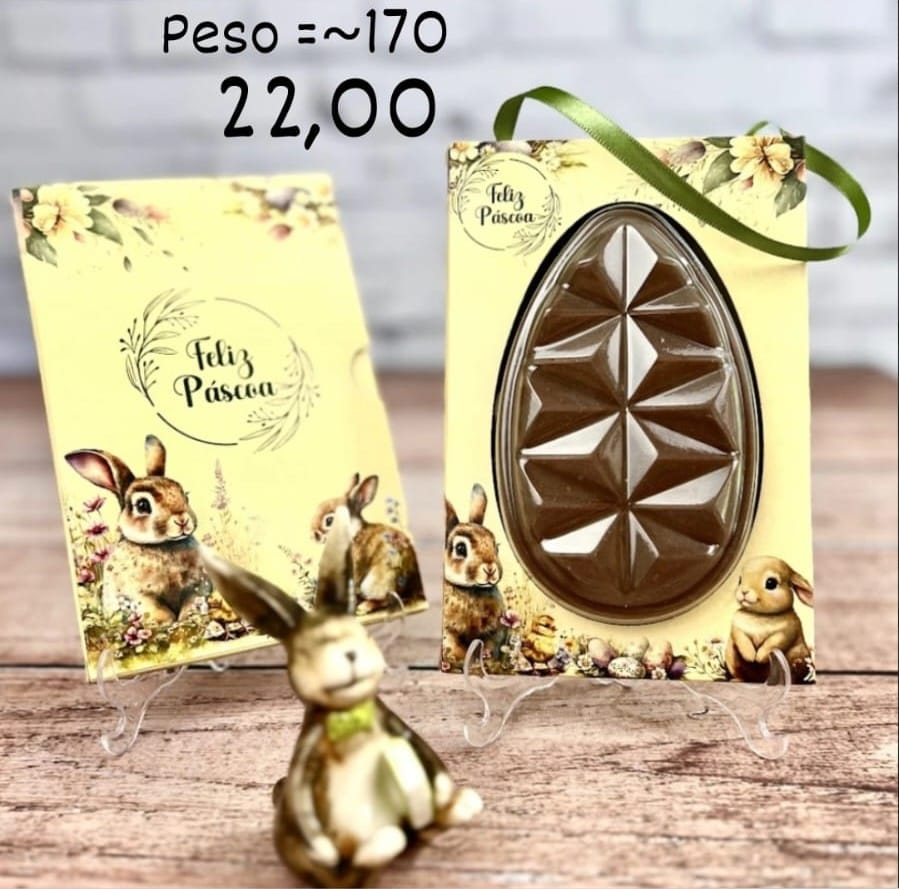
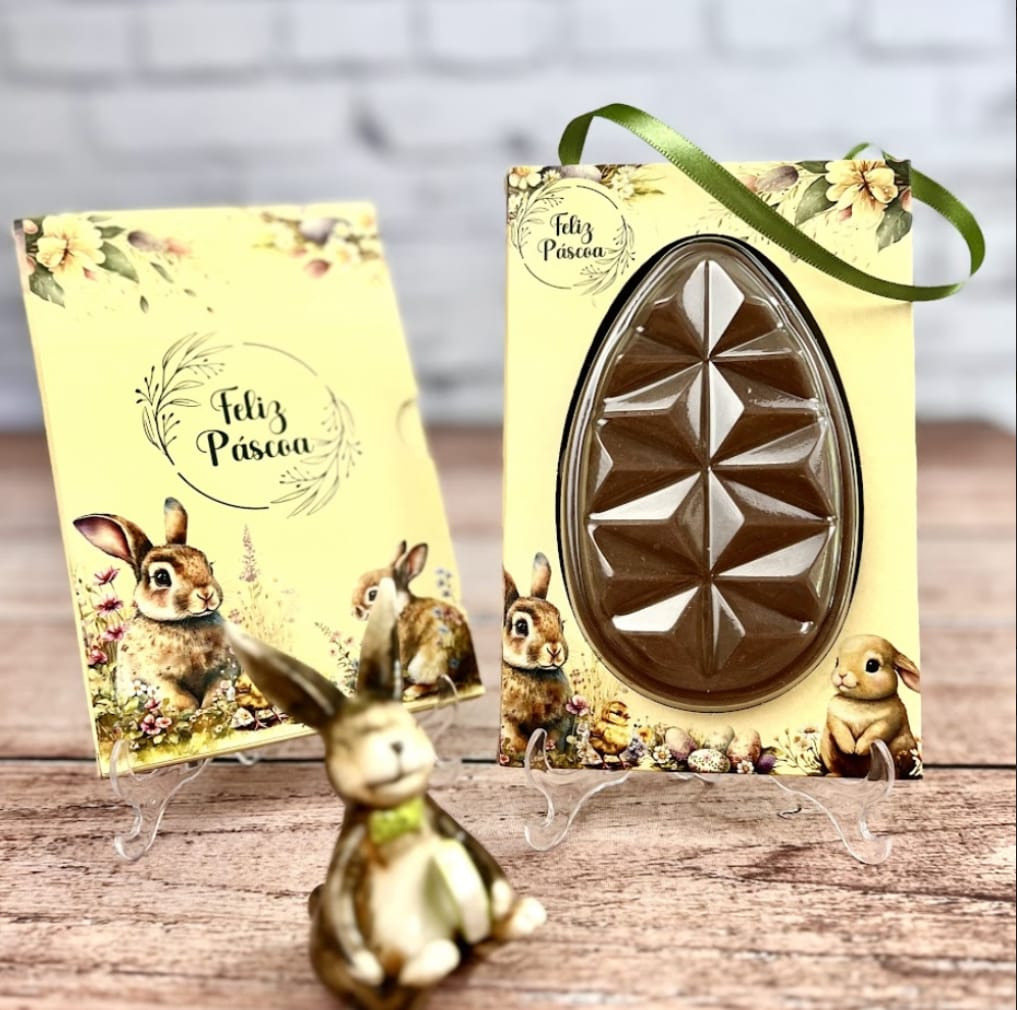
incluindo fotos cardapio

diff --git a/src/app/pages/lembrancinhas/lembrancinhas.component.ts b/src/app/pages/lembrancinhas/lembrancinhas.component.ts
@@ -320,51 +320,51 @@ export class LembrancinhasComponent implements OnInit {
         urlFoto: 'assets/lembrancinhas2024/21.jpg',
         recheio: null,
       },
-      //{
-      //id: 22,
-      //ativo: true,
-      //titulo: 'Ovo Frito',
-      //descricao: null,
-      //descricao2: null,
-      //valor: 9,
-      //peso: null,
-      //valor2: null,
-      //peso2: null,
-      //valor3: null,
-      //peso3: null,
-      // urlFoto: 'assets/lembrancinhas2024/22.jpg',
-      //recheio: null,
-      //  },
-      //  {
-      //  id: 23,
-      //ativo: true,
-      //titulo: 'Coelhinho',
-      //descricao: null,
-      //descricao2: null,
-      //valor: 7,
-      //peso: null,
-      //valor2: null,
-      //peso2: null,
-      //valor3: null,
-      //peso3: null,
-      //urlFoto: 'assets/lembrancinhas2024/23.jpg',
-      // recheio: null,
-      //},
-      // {
-      // id: 24,
-      //      ativo: true,
-      //    titulo: 'Ovo Plano',
-      //  descricao: null,
-      //descricao2: null,
-      //       valor: 22,
-      //     peso: 170,
-      //   valor2: null,
-      // peso2: null,
-      //valor3: null,
-      //   peso3: null,
-      // urlFoto: 'assets/lembrancinhas2024/24.jpg',
-      //  recheio: null,
-      // },
+      {
+        id: 22,
+        ativo: true,
+        titulo: 'Ovo Frito',
+        descricao: null,
+        descricao2: null,
+        valor: 9,
+        peso: null,
+        valor2: null,
+        peso2: null,
+        valor3: null,
+        peso3: null,
+        urlFoto: 'assets/lembrancinhas2024/22.jpg',
+        recheio: null,
+      },
+      {
+        id: 23,
+        ativo: true,
+        titulo: 'Coelhinho',
+        descricao: null,
+        descricao2: null,
+        valor: 7,
+        peso: null,
+        valor2: null,
+        peso2: null,
+        valor3: null,
+        peso3: null,
+        urlFoto: 'assets/lembrancinhas2024/23.jpg',
+        recheio: null,
+      },
+      {
+        id: 24,
+        ativo: true,
+        titulo: 'Ovo Plano',
+        descricao: null,
+        descricao2: null,
+        valor: 22,
+        peso: 170,
+        valor2: null,
+        peso2: null,
+        valor3: null,
+        peso3: null,
+        urlFoto: 'assets/lembrancinhas2024/24.jpg',
+        recheio: null,
+      },
     ];
   }
 }
